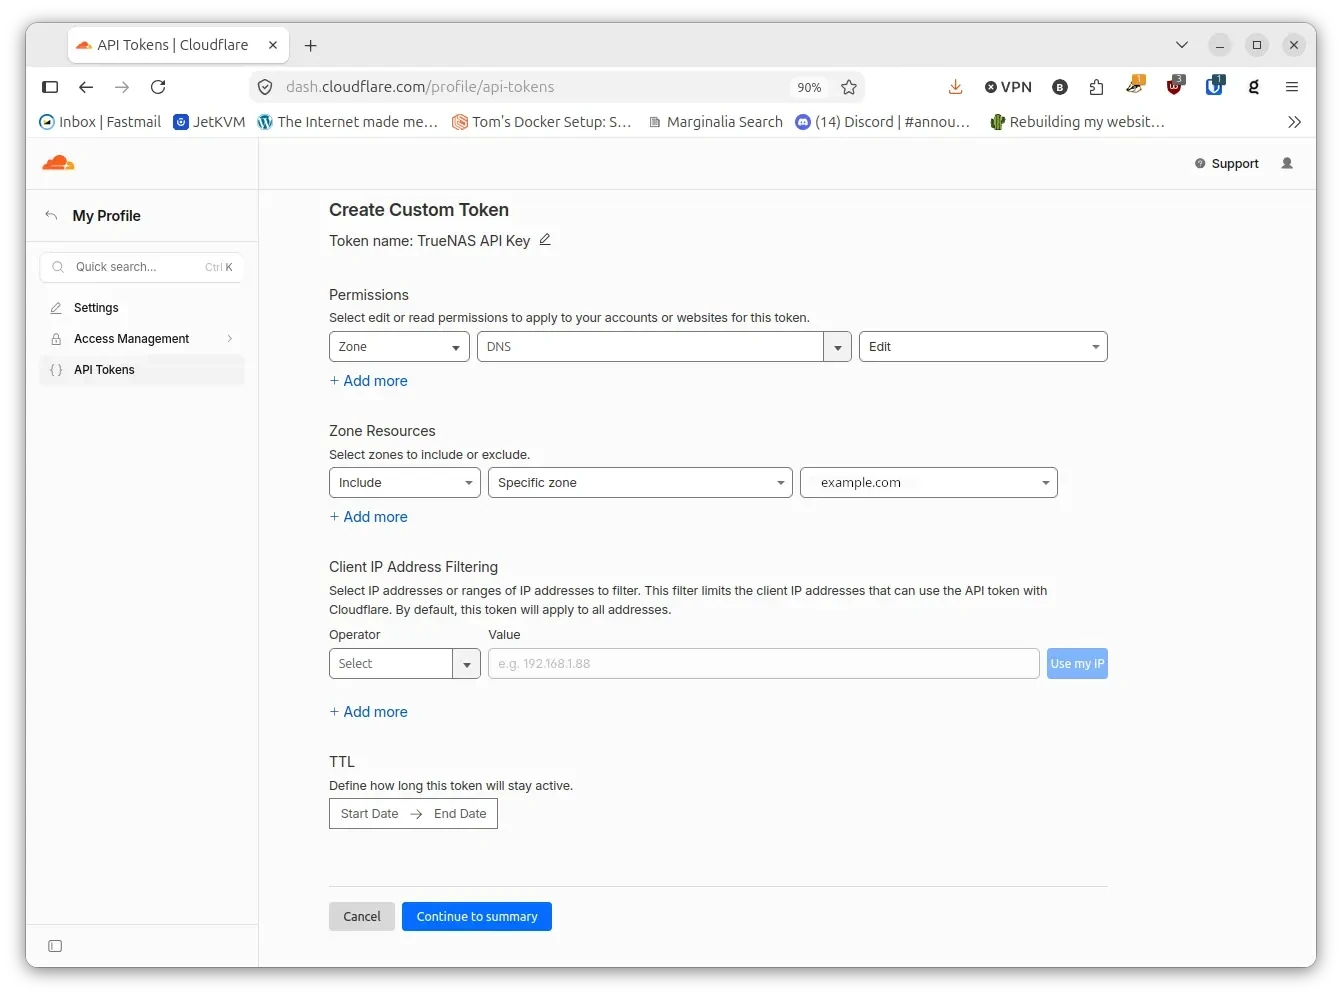
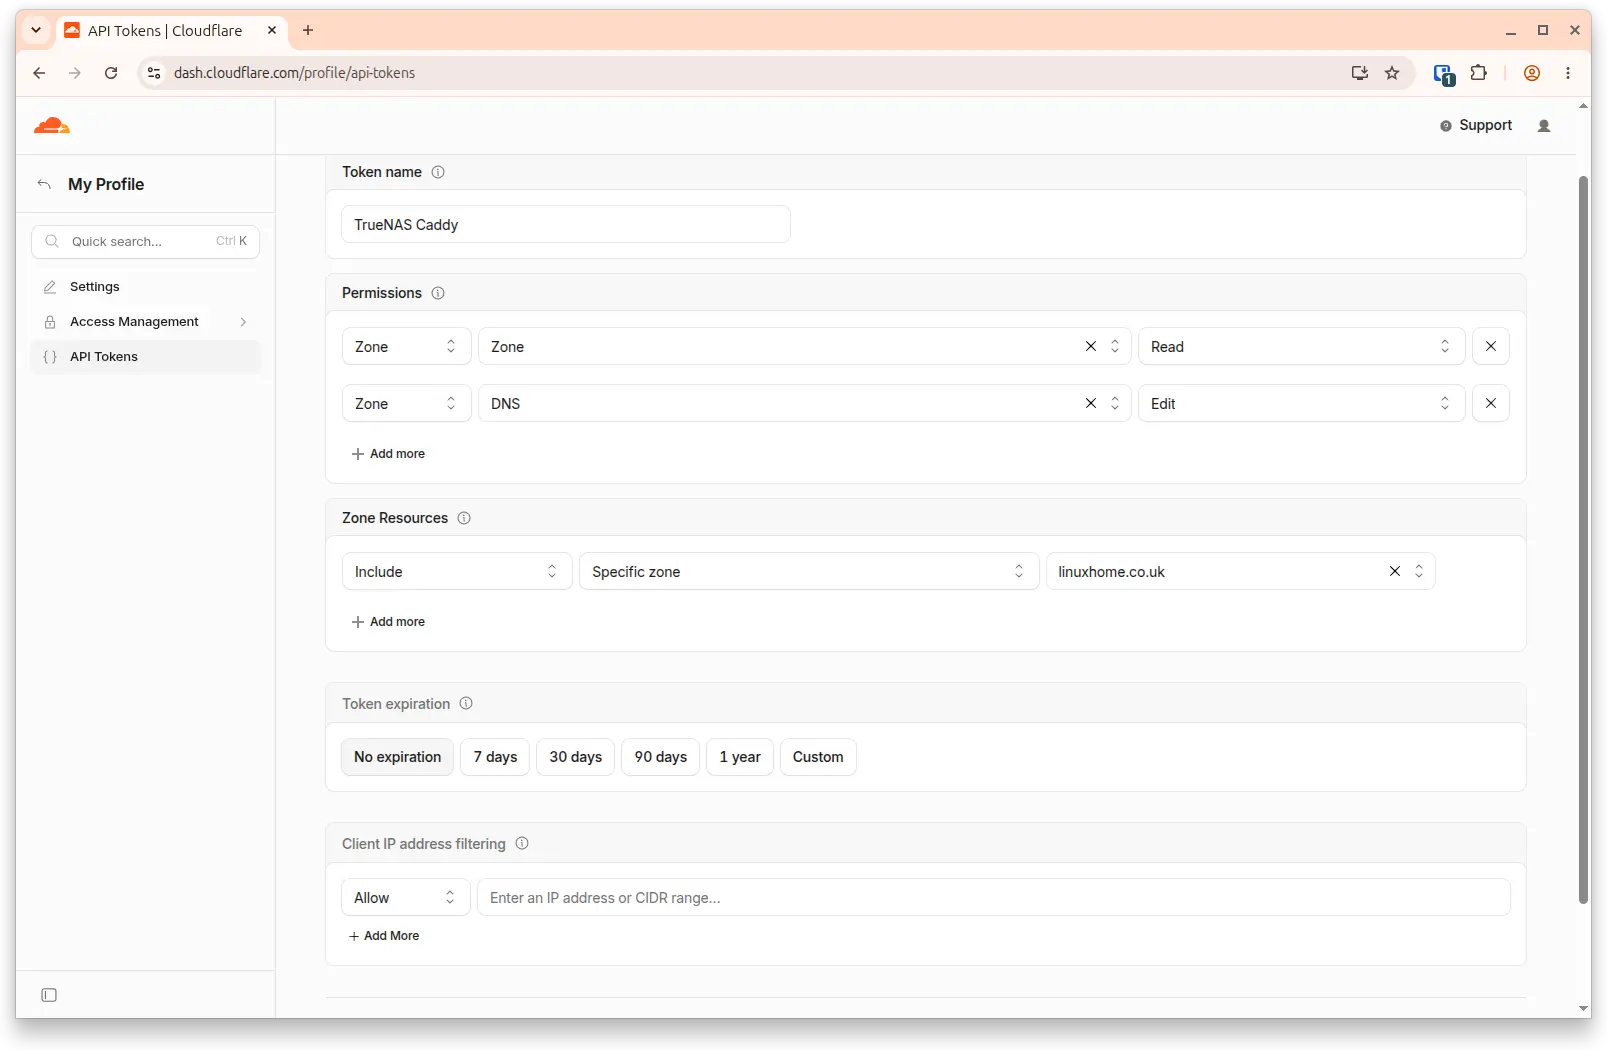
Updated Caddy for TrueNAS and Lets Encrypt for TrueNAS pages.

diff --git a/_drafts/2026-10-03-Caddy-Reverse-Proxy-for-Apps-on-TrueNAS-Scale.md b/_drafts/2026-10-03-Caddy-Reverse-Proxy-for-Apps-on-TrueNAS-Scale.md
@@ -28,7 +28,8 @@ We have a bit of work to do before we install Caddy as an app, see the diagram b
 ![Custom API Token](../assets/img/posts/2026/2026-10-03-Caddy-Reverse-Proxy-for-Apps-on-TrueNAS-Scale/Custom_Token.webp)
 5. Set permissions
 
-    Zone:DNS:Edit
+- Zone:Zone:Read
+- Zone:DNS:Edit
 
 ![Use API Token](../assets/img/posts/2026/2026-10-03-Caddy-Reverse-Proxy-for-Apps-on-TrueNAS-Scale/Use_API_Token.webp)
 
@@ -68,31 +69,28 @@ __Strip ACL__ and change the __Owner:__ and Owner __Group:__ to apps, tick __App
 4. Click on __System__ > __Shell__ and navigate to your newly created storage pool, then create 2 directories, one called data and one called config, then change the owner to owner and group to apps.
 
 ```bash
-sudo cd /mnt/Tank/Apps/caddy
-sudo mkdir config data
-```
-
-```bash
-sudo nano Caddyfile
-sudo chown -R apps:apps *
-```
-
-```text
-:80 {  
-respond "Hello from TrueNAS 25.10!"  
-}
+cd /mnt/Tank/Apps/caddy
+sudo mkdir config data logs
 ```
 
 ## Caddyfile Configuration
 
-Configure your `Caddyfile` to use the Cloudflare DNS challenge globally or per site:
+Create a Caddyfile and past in the text below, do remember to change the domain name to one the that you have registered with Cloudflare (replace both example.com entries). The Caddyfile below uses wild card domain setup rather than per domain (*.example.com), I've put a jellyfin example in that works, as long as you change the domain to your own Cloudflare domain.
 
-```yaml
+If you've already installed Jellyfin, then you'll have to change the default container network to _caddy_proxy_
+
+![Caddy Container Network](../assets/img/posts/2026/2026-10-03-Caddy-Reverse-Proxy-for-Apps-on-TrueNAS-Scale/Caddy_Container_Network.webp)
+
+```bash
+sudo nano Caddyfile
+```
+
+```text
 {
   # Global Options
   # ACME DNS configuration using Cloudflare
 
-  # acme_dns cloudflare {env.CLOUDFLARE_API_TOKEN}
+  acme_dns cloudflare {env.CLOUDFLARE_API_TOKEN}
   email {env.CLOUDFLARE_EMAIL}
 }
 
@@ -108,18 +106,31 @@ Configure your `Caddyfile` to use the Cloudflare DNS challenge globally or per s
   header {
     # Enable XSS protection
     X-XSS-Protection "1; mode=block"
+
     # Security headers enable HSTS
     Strict-Transport-Security "max-age=31536000; includeSubDomains; preload"
+    
     # Prevent MIME type sniffing
     X-Content-Type-Options nosniff
+    
     # Prevent clickjacking
     X-Frame-Options DENY
     Referrer-Policy no-referrer-when-downgrade
+
+    # Control how much referrer info is sent
+    Referrer-Policy "strict-origin-when-cross-origin"
+    
+    # Strong Content Security Policy (Adjust based on your app needs)
+    # Content-Security-Policy "default-src 'self'; script-src 'self'; object-src 'none'; base-uri 'self';"
+
+    # Remove backend server signatures to hide stack details
+    # -Server
+    # -X-Powered-By
   }
 }
 
 # Site block for root and all subdomains
-linuxhome.co.uk, *.linuxhome.co.uk {
+example.com, *.example.com {
   import common
 
   # Required for Wildcard certs via Cloudflare DNS
@@ -132,6 +143,13 @@ linuxhome.co.uk, *.linuxhome.co.uk {
     output file /var/log/caddy/access.log
   }
 
+  # Jellyfin
+  @jellyfin host jellyfin.example.com
+  handle @jellyfin {
+      import internal_only
+      reverse_proxy jellyfin:8096
+  }
+
   # Default fallback
   handle {
     respond "404 - Service not found" 404
@@ -140,9 +158,15 @@ linuxhome.co.uk, *.linuxhome.co.uk {
 
 ```
 
+Change the owner and group of everything in that directory to apps.
+
+```bash
+sudo chown -R apps:apps *
+```
+
 ## Deploy via YAML (Recommended)
 
-This is the fastest and most foolproof method. It bypasses the step-by-step graphical wizard by directly feeding TrueNAS a standard Docker Compose structure.
+This is the fastest and most foolproof method. It bypasses the step-by-step graphical wizard by directly feeding TrueNAS a standard Docker Compose structure. Remember to change CLOUDFLARE_API_TOKEN and CLOUDFLARE_EMAIL for your own.
 
 1. Go to __Apps__ in the TrueNAS SCALE sidebar.
 2. Click __Discover Apps__ in the top right.
@@ -157,6 +181,7 @@ services:
     container_name: caddy
     environment:
       - CLOUDFLARE_API_TOKEN=cfut_blahhdeblahh
+      - CLOUDFLARE_EMAIL=billy@example.com
     restart: unless-stopped
     user: "568:568"
     cap_add:
@@ -170,10 +195,11 @@ services:
     volumes:
       # Update "/mnt/tank/..." to your actual storage path
       # Stores Let’s Encrypt / ZeroSSL certificates
+      
       - /mnt/Tank/Apps/caddy/Caddyfile:/etc/caddy/Caddyfile  
       - /mnt/Tank/Apps/caddy/data:/data
       - /mnt/Tank/Apps/caddy/config:/config
-      # Caddy log files
+      # Access log files
       - /mnt/Tank/Apps/caddy/logs:/var/log/caddy
     networks:
       - caddy_proxy

diff --git a/_posts/2026-09-17-Lets-Encrypt-Certificate-for-TrueNAS-Scale.md b/_posts/2026-09-17-Lets-Encrypt-Certificate-for-TrueNAS-Scale.md
@@ -32,7 +32,8 @@ TrueNAS SCALE/Community Edition include the ability obtain a trusted TLS certifi
 ![Custom API Token](../assets/img/posts/2026/2026-09-17-Lets-Encrypt-Certificates-for-TrueNAS/Custom_Token.webp)
 5. Set permissions
 
-    Zone:DNS:Edit
+- Zone:Zone:Read
+- Zone:DNS:Edit
 
 ![Use API Token](../assets/img/posts/2026/2026-09-17-Lets-Encrypt-Certificates-for-TrueNAS/Use_API_Token.webp)
 
